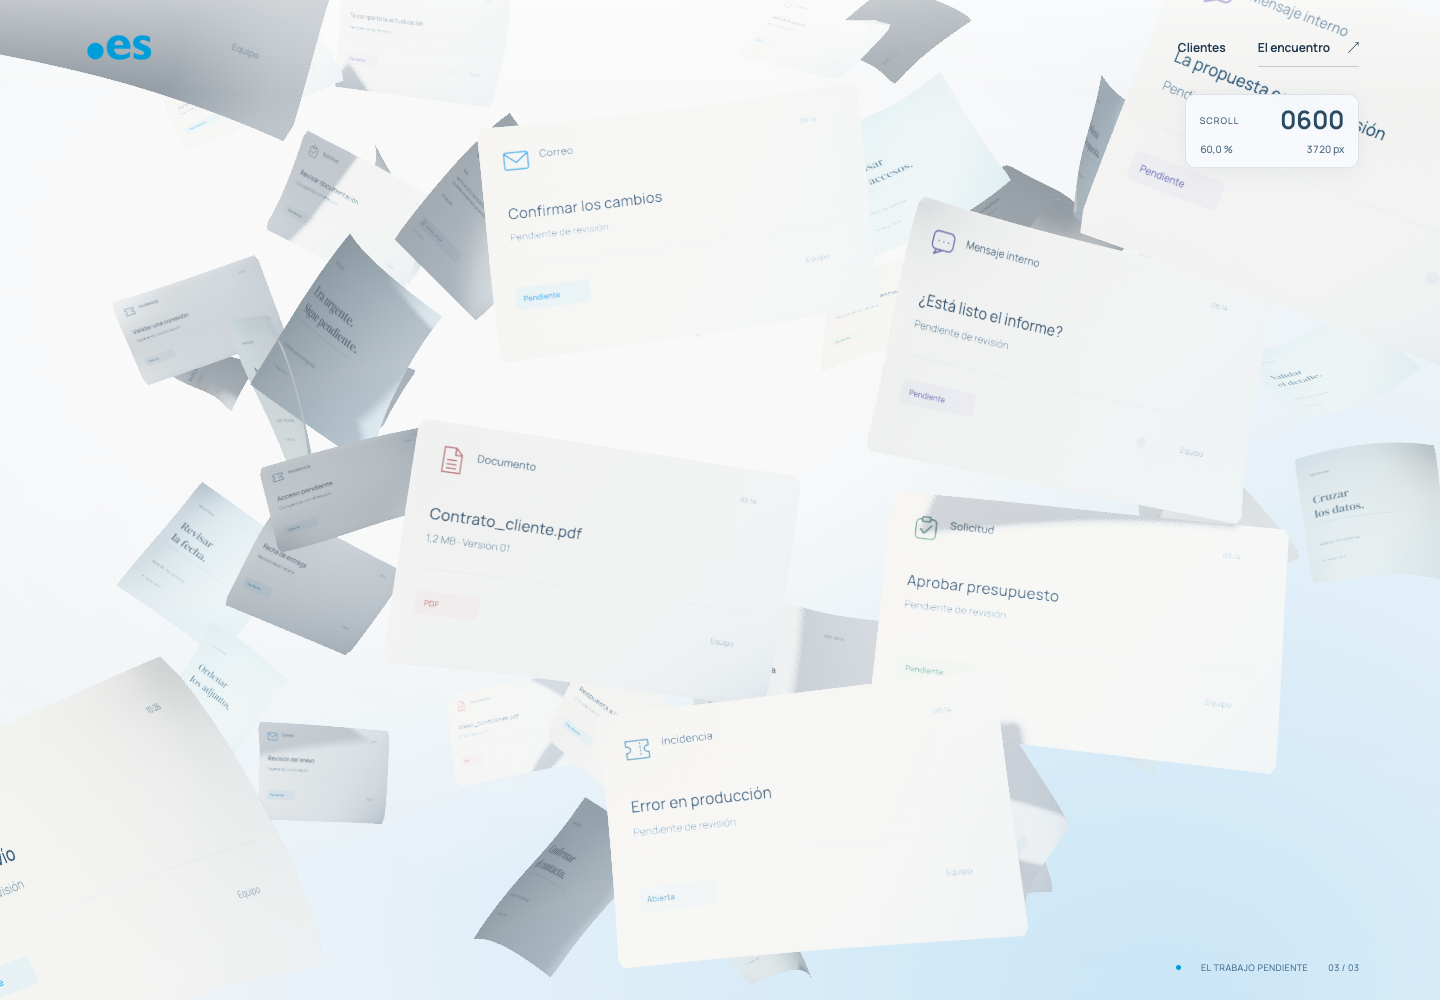
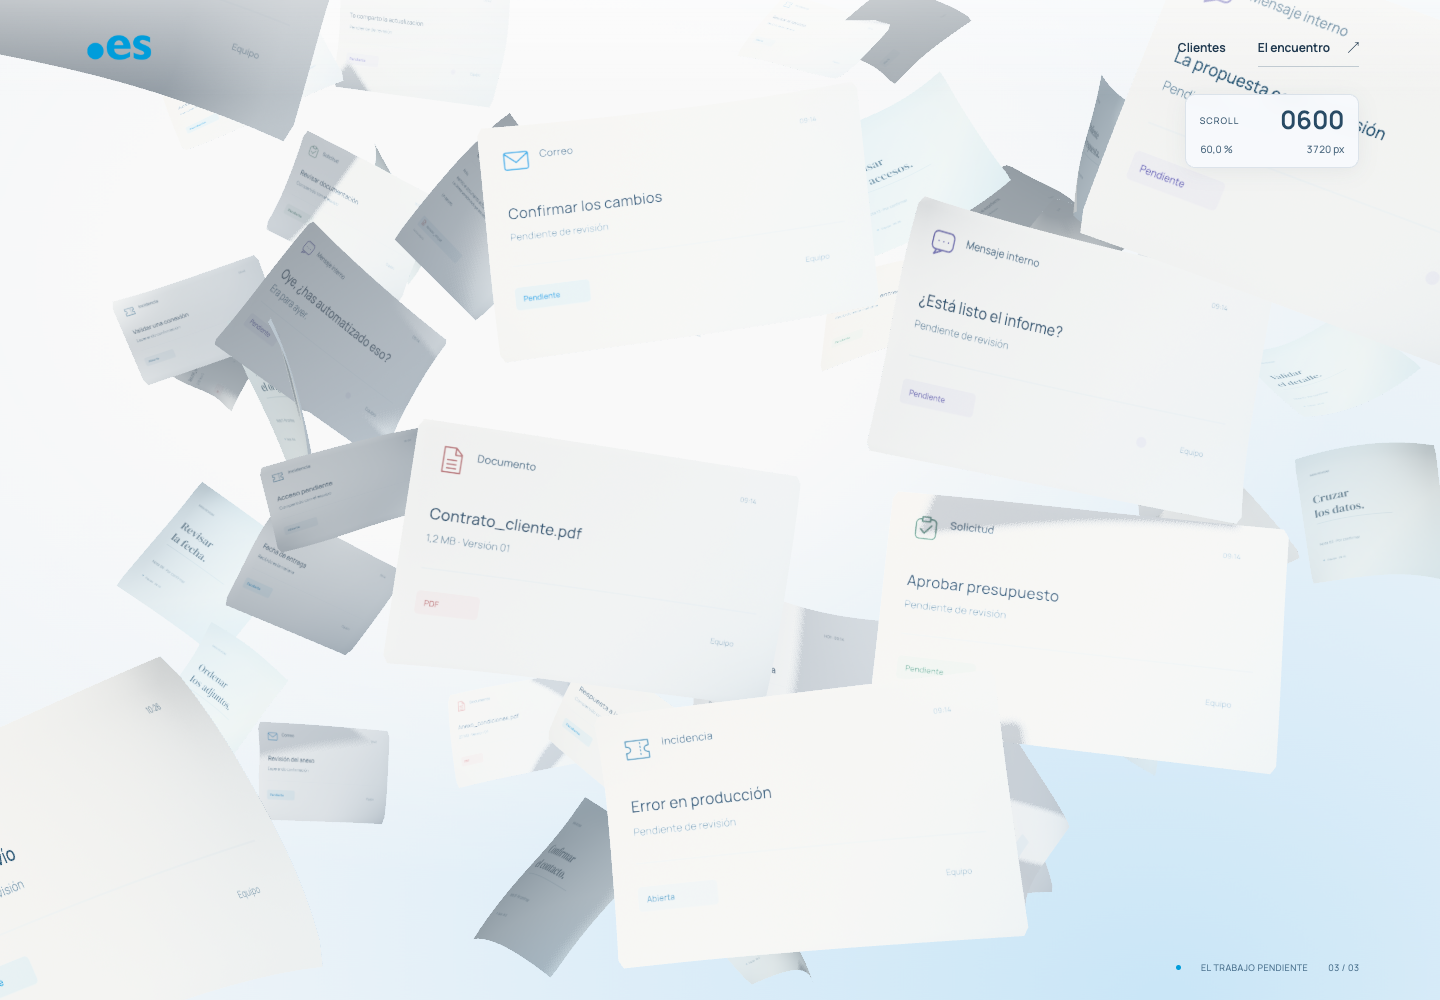
Use a unified internal message with first entry at 90 local pixels

Changed region(s): [[0.1562, 0.217, 0.3125, 0.465]]

diff --git a/src/section-three/scene.js b/src/section-three/scene.js
@@ -44,16 +44,16 @@ export async function createPaperSection(journey) {
   await Promise.all([document.fonts.load('400 40px Manrope'), document.fonts.load('400 80px "DM Serif"')]);
   const grain = paperGrain();
   const pieces = [], heroes = [], field = [], foreground = [];
-  const variantCounts = new Map();
+  const variantCounts = new Map([['note', 1]]);
   const rand = randomSource(31415);
-  function addPaper(kind, variant, width, height, seed, detailed = false) {
-    variant = variantCounts.get(kind) ?? 0; variantCounts.set(kind, variant + 1);
-    const paper = createPaper({kind, variant, width, height, grain, detailed});
+  function addPaper(kind, variant, width, height, seed, detailed = false, content = null) {
+    if (!content) {variant = variantCounts.get(kind) ?? 0; variantCounts.set(kind, variant + 1);}
+    const paper = createPaper({kind, variant, width, height, grain, detailed, content});
     scene.add(paper.mesh); paper.mesh.visible = false;
     const piece = {...paper, flight: flightTrack(seed), seed, phase: seed % 100 / 100 * Math.PI * 2};
     pieces.push(piece); return piece;
   }
-  const note = addPaper('note', 0, 3.25, 3.45, 97, true);
+  const note = addPaper('chat', 0, 3.65, 2.25, 97, true, {message: 'Oye, ¿has conseguido automatizar eso? Lo necesitábamos ayer.', status: 'Pendiente'});
   const letter = addPaper('letter', 0, 3.85, 4.44, 192, true);
   for (let i = 0; i < 5; i++) heroes.push(addPaper(CHANNELS[i], i % 2, 3.65, 2.25, 297 + i * 117, true));
   for (let i = 0; i < 64; i++) {
@@ -112,7 +112,7 @@ export async function createPaperSection(journey) {
     const clearance = Math.max(piece.width, piece.height) * scale + 1.8;
     let entryY = top + clearance;
     if (piece === note && f.y > 0) {
-      // Start the note at the upper edge at 0090, including its curved corners.
+      // Start the first message at 90 local scroll pixels, including its curved corners.
       const box = piece.mesh.geometry.boundingBox, offset = new THREE.Vector3();
       entryY = -Infinity;
       for (let i = 0; i < 8; i++) {
@@ -131,8 +131,9 @@ export async function createPaperSection(journey) {
     const heroScale = portrait ? .51 : 1;
     const scatter = smooth(.45, .73, p), dense = smooth(.57, .98, p);
     const noteExit = smooth(.18, .36, p), noteCloud = smooth(.58, .8, p);
-    const noteAnchor = [mix(.1, -.55, noteExit) + .45 * noteCloud, mix(-.02, .34, noteExit) - .76 * noteCloud, mix(3.4, -5.6, noteExit)];
-    falling(note, p, .09, .065, noteAnchor, [mix(-.08, .4, noteExit), mix(-.32, .9, noteExit), mix(-.13, -.46, noteExit)], (portrait ? .76 : 1) * mix(1, .75, noteExit), .64 + noteExit * .25, idle, 1.25);
+    const noteAnchor = [mix(portrait ? 0 : .1, -.55, noteExit) + .45 * noteCloud, mix(-.02, .34, noteExit) - .76 * noteCloud, mix(3.4, -5.6, noteExit)];
+    const messageScale = portrait ? 2 * Math.tan(THREE.MathUtils.degToRad(camera.fov / 2)) * (18 - 3.4) * camera.aspect * .9 / note.width : 1.3;
+    falling(note, p, 90 / height, .145, noteAnchor, [mix(-.08, .4, noteExit), mix(-.32, .9, noteExit), mix(-.13, -.46, noteExit)], messageScale * mix(1, .75, noteExit), .22 + noteExit * .16, idle, 1.25);
     const letterExit = smooth(.37, .55, p);
     const letterAnchor = [mix(portrait ? .03 : .2, portrait ? -.2 : .08, letterExit), mix(.08, -.45, letterExit), mix(3.2, -3.2, letterExit)];
     falling(letter, p, .20, .135, letterAnchor, [mix(-.16, -.36, letterExit), mix(-.42, .62, letterExit), mix(.19, -.30, letterExit)], (portrait ? .74 : 1.16) * mix(1, .70, letterExit), 1.02 - letterExit * .45, idle, .95);
@@ -215,7 +216,7 @@ export async function createPaperSection(journey) {
       }
     },
     resize,
-    getState: () => ({...lastState, active, firstSubject: note.subject}),
+    getState: () => ({...lastState, active, firstSubject: note.subject, firstKind: note.kind, firstEntryPixels: note.start * height}),
     getReview: () => review,
     dispose() {
       if (disposed) return; disposed = true; input.dispose();

diff --git a/src/section-three/art.js b/src/section-three/art.js
@@ -54,8 +54,8 @@ function grain(ctx, w, h, amount, seed) {
   }
   ctx.putImageData(pixels, 0, 0);
 }
-export function surfaceTexture(kind, variant = 0, resolution = 1024) {
-  const key = `${kind}-${variant}-${resolution}`;
+export function surfaceTexture(kind, variant = 0, resolution = 1024, content = null) {
+  const key = `${kind}-${variant}-${resolution}-${content?.message ?? ''}`;
   if (cache.has(key)) return cache.get(key);
   const c = document.createElement('canvas'); c.width = 1024; c.height = kind === 'letter' ? 1180 : kind === 'note' ? 1080 : 630;
   const ctx = c.getContext('2d'); const { width: w, height: h } = c;
@@ -92,13 +92,25 @@ export function surfaceTexture(kind, variant = 0, resolution = 1024) {
     const titles = { email: 'Correo', chat: 'Mensaje interno', ticket: 'Incidencia', document: 'Documento', task: 'Solicitud' };
     line(ctx, titles[kind], 160, 91, 28, '#446c88', 500);
     line(ctx, ['09:14', '10:26', '09:42'][variant % 3], 864, 90, 18, '#91a9ba');
-    subject = channelContent[kind][variant] ?? `${titles[kind]} ${variant + 1}`;
+    subject = content?.message ?? channelContent[kind][variant] ?? `${titles[kind]} ${variant + 1}`;
     const secondary = kind === 'document' ? `${(1.2 + variant * .3).toFixed(1).replace('.', ',')} MB · Versión ${String(variant + 1).padStart(2, '0')}` : ['Pendiente de revisión', 'Compartido con el equipo', 'Esperando confirmación', 'Recibido esta mañana', 'En curso'][variant % 5];
     const text = [subject, secondary];
-    line(ctx, text[0], 62, 252, text[0].length > 27 ? 34 : 40, INK, 500); line(ctx, text[1], 62, 311, 27, '#7793a7');
+    if (content) {
+      ctx.font = '500 56px "Manrope", Arial';
+      const rows = []; let row = '';
+      for (const word of subject.split(/\s+/)) {
+        const next = row ? `${row} ${word}` : word;
+        if (row && ctx.measureText(next).width > 894) {rows.push(row); row = word;}
+        else row = next;
+      }
+      if (row) rows.push(row);
+      rows.forEach((text, index) => line(ctx, text, 62, 222 + index * 68, 56, INK, 500));
+    } else {
+      line(ctx, text[0], 62, 252, text[0].length > 27 ? 34 : 40, INK, 500); line(ctx, text[1], 62, 311, 27, '#7793a7');
+    }
     ctx.strokeStyle = '#d8e5ee'; ctx.lineWidth = 1.2; ctx.beginPath(); ctx.moveTo(62, 380); ctx.lineTo(956, 380); ctx.stroke();
     ctx.fillStyle = `${palette[kind]}14`; rounded(ctx, 60, 438, kind === 'document' ? 164 : 205, 61, 10); ctx.fill();
-    line(ctx, kind === 'document' ? 'PDF' : kind === 'ticket' ? 'Abierta' : 'Pendiente', 82, 477, 21, palette[kind], 500);
+    line(ctx, content?.status ?? (kind === 'document' ? 'PDF' : kind === 'ticket' ? 'Abierta' : 'Pendiente'), 82, 477, content ? 28 : 21, palette[kind], 500);
     line(ctx, 'Equipo', 845, 476, 20, '#91a9ba');
     if (kind === 'chat') { ctx.fillStyle = `${palette[kind]}18`; ctx.beginPath(); ctx.arc(737, 470, 14, 0, Math.PI * 2); ctx.fill(); }
   }

diff --git a/src/section-three/paper.js b/src/section-three/paper.js
@@ -31,10 +31,10 @@ function shell(width, height, nx, ny, radius, thickness) {
   const geo = new THREE.BufferGeometry(); geo.setAttribute('position', new THREE.Float32BufferAttribute(positions, 3)); geo.setAttribute('uv', new THREE.Float32BufferAttribute(uvs, 2)); geo.setAttribute('paperSide', new THREE.Float32BufferAttribute(faces, 1)); geo.setIndex(indices); geo.computeVertexNormals();
   return {geo, base: new Float32Array(base)};
 }
-export function createPaper({kind, variant, width, height, grain, detailed = false}) {
+export function createPaper({kind, variant, width, height, grain, detailed = false, content = null}) {
   const {geo, base} = shell(width, height, detailed ? 30 : 14, detailed ? 32 : 14, kind === 'note' || kind === 'letter' ? .015 : .045, kind === 'note' || kind === 'letter' ? .0028 : .004);
   const material = new THREE.MeshPhysicalMaterial({
-    map: surfaceTexture(kind, variant, detailed ? 1024 : 512), color: '#ffffff', roughness: .92, metalness: 0,
+    map: surfaceTexture(kind, variant, detailed ? 1024 : 512, content), color: '#ffffff', roughness: .92, metalness: 0,
     bumpMap: grain, bumpScale: .003, sheen: 0, sheenRoughness: .96, sheenColor: new THREE.Color('#d4e5f0'), specularIntensity: .045,
     clearcoat: 0, clearcoatRoughness: .9, side: THREE.FrontSide,
   });

diff --git a/index.html b/index.html
@@ -114,9 +114,9 @@
       <div class="paper-stage">
         <canvas data-paper-canvas aria-hidden="true"></canvas>
         <button class="paper-motion" data-paper-motion type="button" hidden>Activar inclinación</button>
-        <p class="paper-fallback" data-paper-fallback hidden>Era urgente.<br />Sigue pendiente.</p>
+        <p class="paper-fallback" data-paper-fallback hidden>Oye, ¿has conseguido automatizar eso? Lo necesitábamos ayer.</p>
       </div>
-      <p id="paper-description" class="scene-description">Era urgente. Sigue pendiente. El cliente vuelve a preguntar. Una nota se convierte en una llegada continua de correos, mensajes, incidencias, documentos y solicitudes.</p>
+      <p id="paper-description" class="scene-description">Un mensaje interno pendiente: Oye, ¿has conseguido automatizar eso? Lo necesitábamos ayer. Se convierte en una llegada continua de correos, mensajes, incidencias, documentos y solicitudes.</p>
     </section>
   </main>
   <dialog id="city-case" class="case-dialog" aria-labelledby="case-title" aria-describedby="case-intro" data-lenis-prevent>

diff --git a/docs/section-three-integration/README.md b/docs/section-three-integration/README.md
@@ -2,7 +2,7 @@
 
 La escena aprobada de papeles aparece después de la ciudad (`#confianza`), en `#posibilidades`. Sustituye el marcador anterior «La inteligencia, puesta en práctica» y utiliza la cabecera y el indicador de capítulo de la web.
 
-El primer papel dice **«Era urgente. Sigue pendiente.»**. Su etiqueta es «BLOQUEADO» y el detalle «El cliente vuelve a preguntar». Este mensaje presenta el coste de una tarea atascada antes de que lleguen los demás correos, mensajes, incidencias y documentos.
+La primera tarjeta es un **mensaje interno**: «Oye, ¿has conseguido automatizar eso? Lo necesitábamos ayer.», con el icono de conversación y el estado «Pendiente» del resto de mensajes. La frase se compone como un solo bloque, con la misma tipografía, tamaño y color en todas sus líneas. Empieza a entrar a los **90 px de scroll local**, independientemente del tamaño de pantalla. Desde el marcador **0180** se aleja y permanece al fondo.
 
 ## Revisar
 
@@ -18,7 +18,7 @@ npm run dev -- --port 5185
 
 ## Integración
 
-Rama `feature/section3-paper-flow` en el worktree `puntoes-section3-integration`. La base `c514374` conserva los siete archivos que estaban modificados localmente en la web principal. El checkout `puntoes-home` permanece intacto. El primer papel también está actualizado en la propuesta aislada `puntoes-section3-lab`.
+Rama `feature/section3-paper-flow` en el worktree `puntoes-section3-integration`. La base `c514374` conserva los siete archivos que estaban modificados localmente en la web principal. El checkout `puntoes-home` permanece intacto.
 
 La nueva escena se carga al aproximarse a la sección, comparte el bucle de animación y el scroll de la web, y suspende su renderizado y sensor al salir. Las fuentes, cabecera y estilos globales se conservan. No incluye controles del laboratorio.
 
